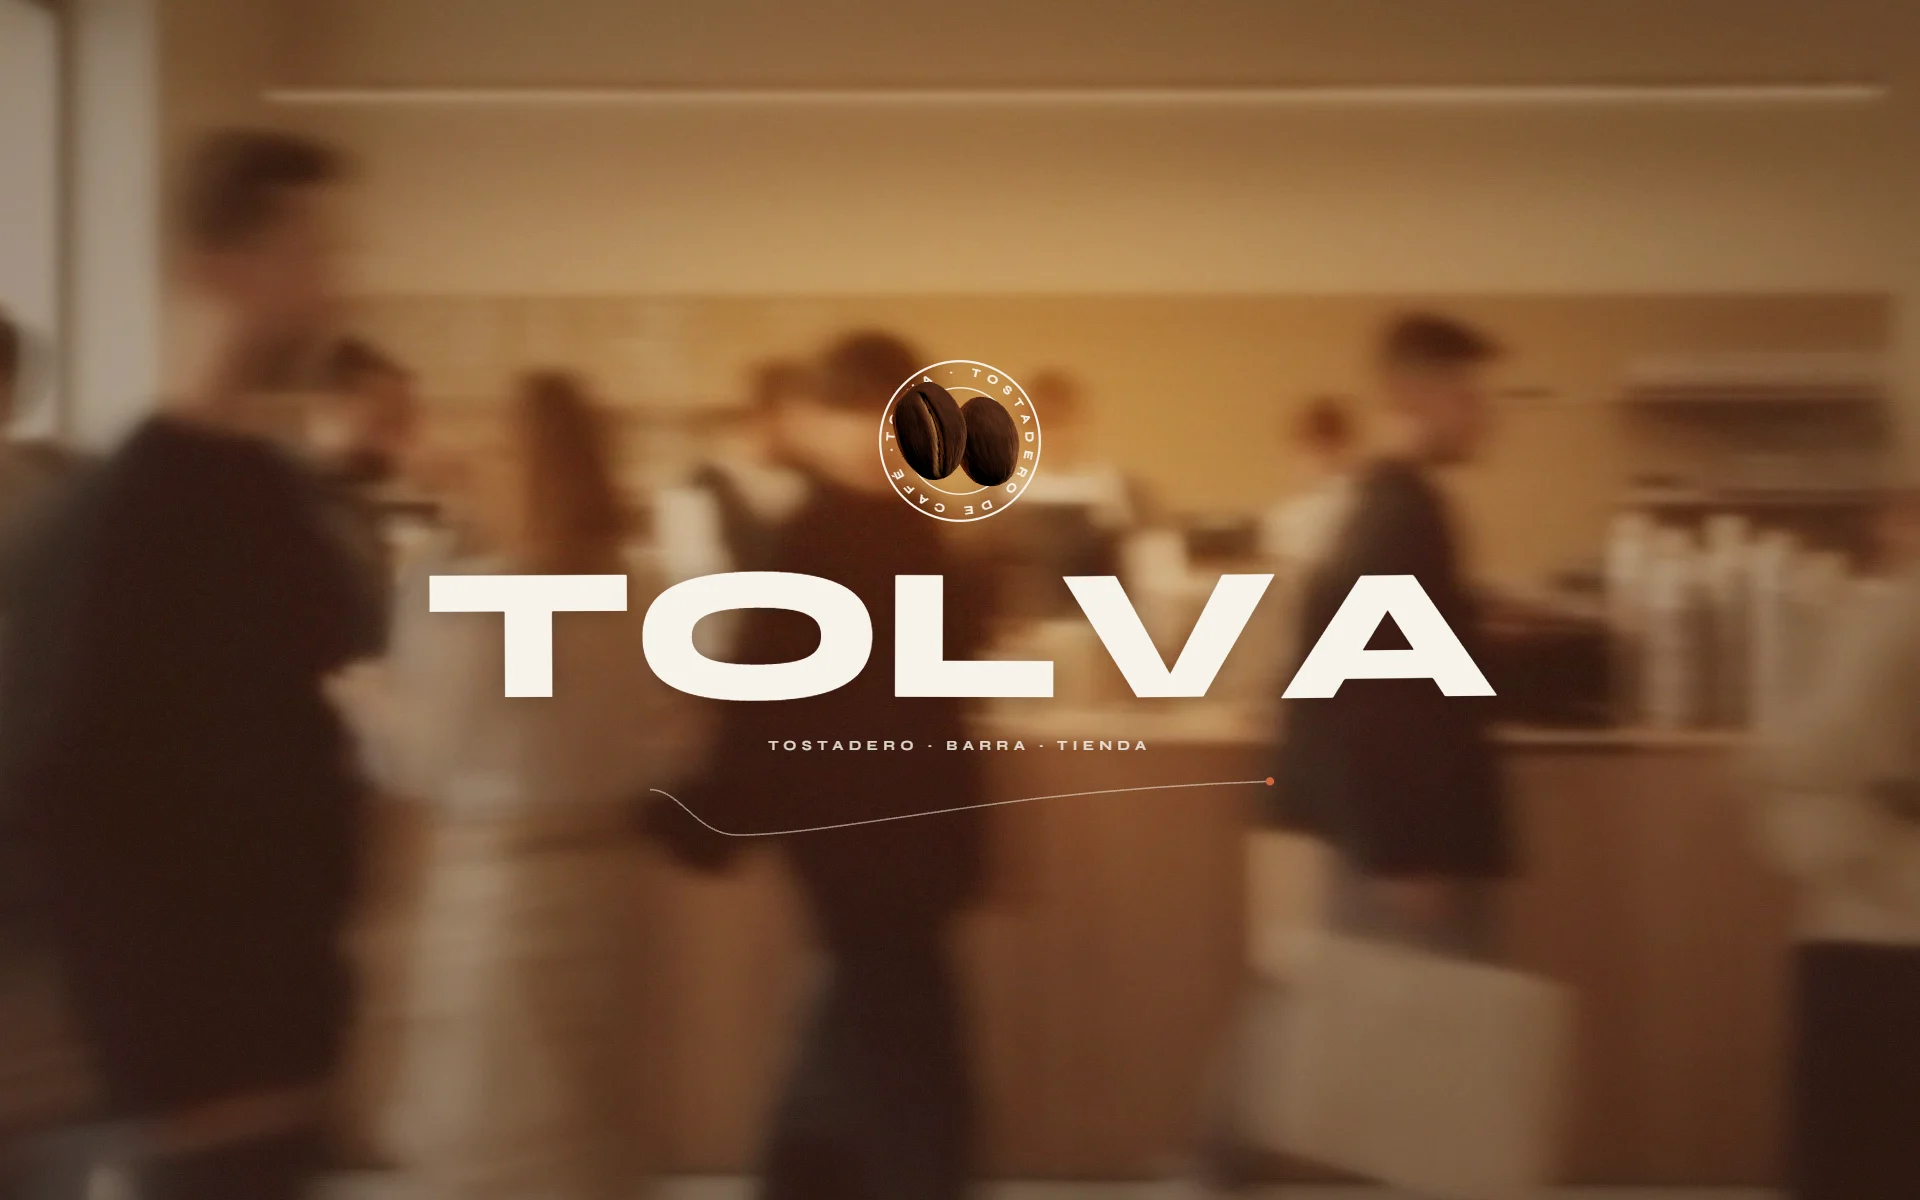
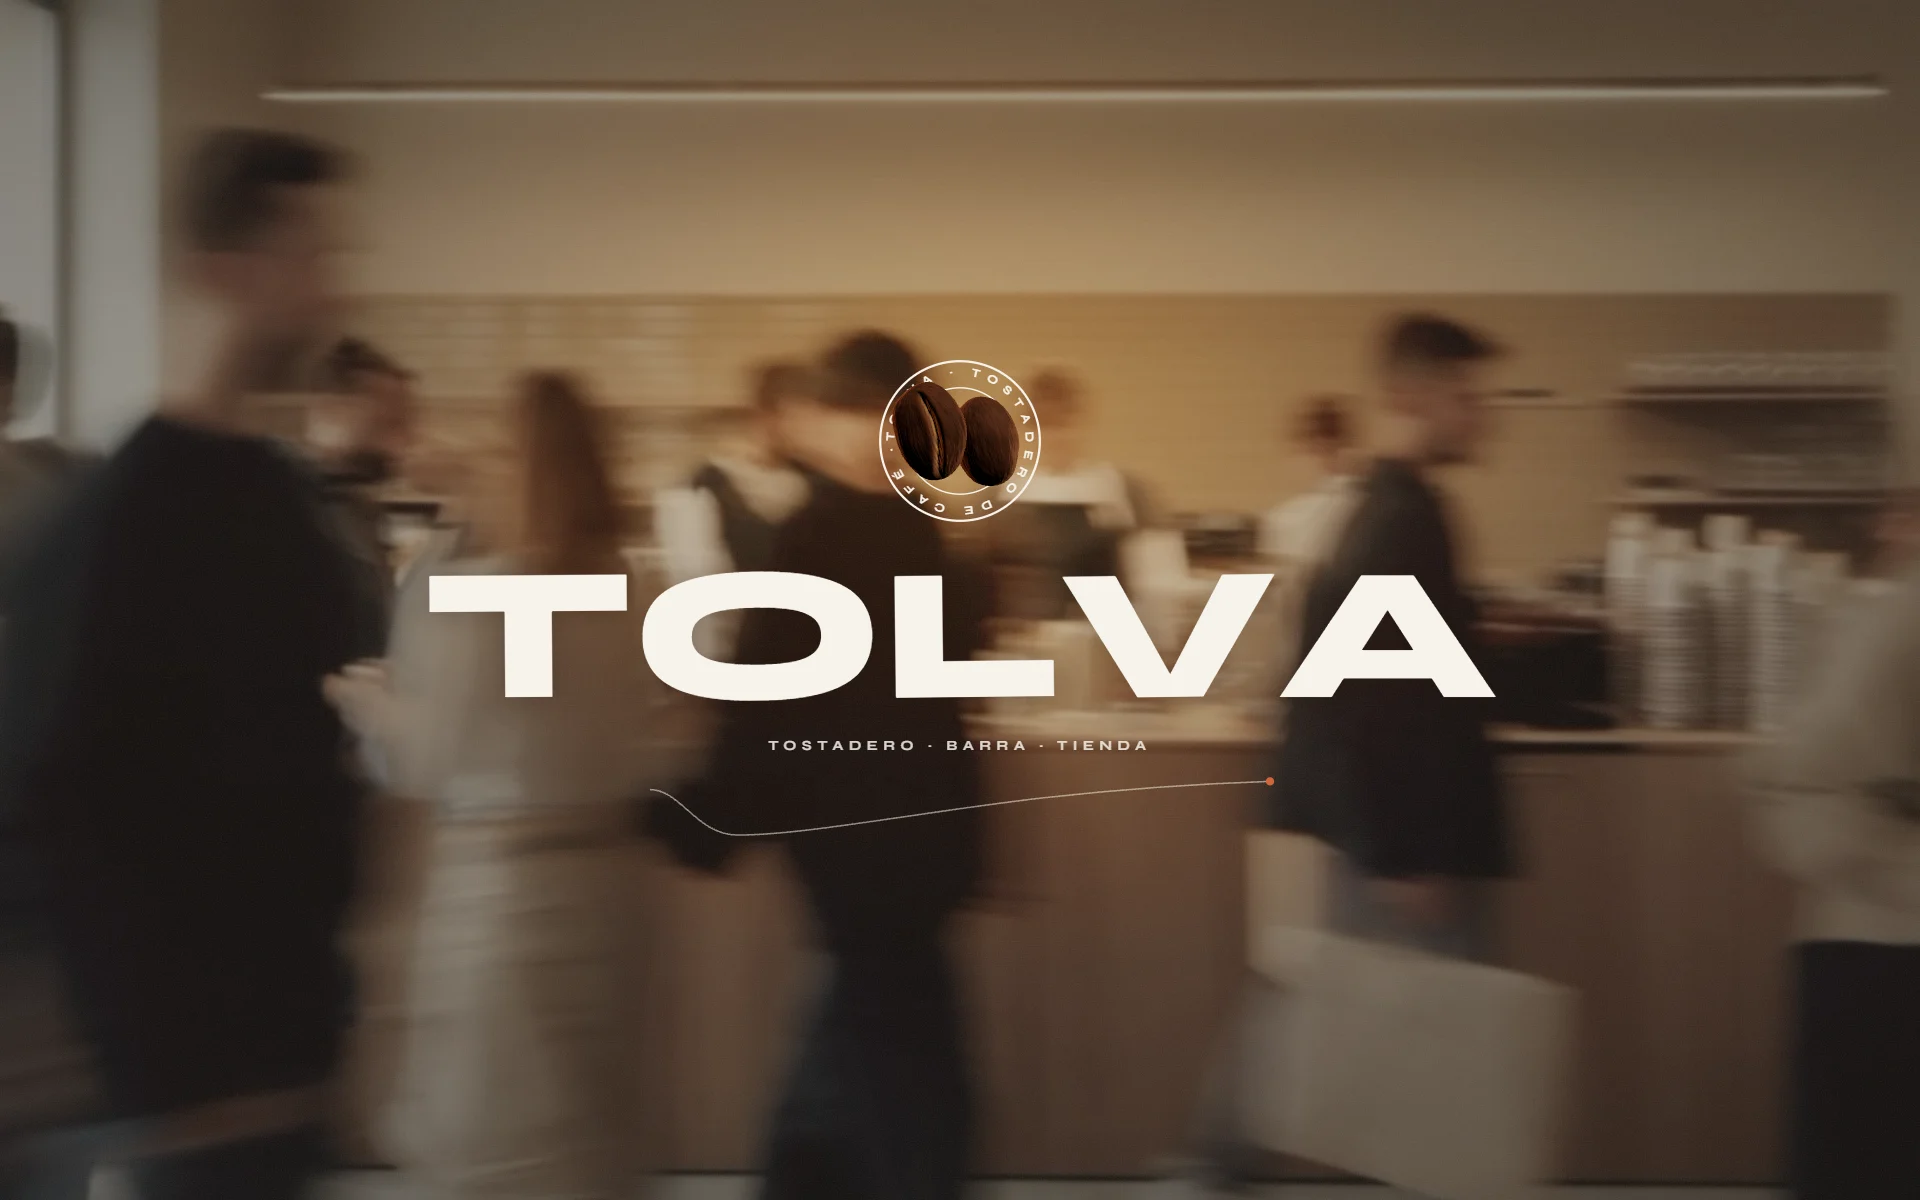
Tolva: sharper, more neutral café behind; phone site with grind and weight choices, sizes fixed

diff --git a/public/concepts/tolva-phone/index.html b/public/concepts/tolva-phone/index.html
@@ -48,9 +48,13 @@
   .txt { font-weight: 500; font-size: 4.2em; line-height: 1.35; }
   .card { border-radius: 5em; overflow: hidden; }
   .row { display: flex; justify-content: space-between; align-items: baseline; }
-  .btn { display: inline-block; background: var(--charcoal); color: var(--cream); border-radius: 99em; padding: 3.2em 7em; font-weight: 700; font-size: 3.8em; }
-  .chip { display: inline-flex; align-items: center; gap: 2em; border: .3em solid rgba(35,34,32,.2); border-radius: 99em; padding: 2.4em 5em; font-weight: 700; font-size: 3.6em; }
-  .chip i { width: 1em; height: 1em; border-radius: 50%; }
+  .btn { display: inline-block; background: var(--charcoal); color: var(--cream); border-radius: 99em; padding: .85em 1.9em; font-weight: 700; font-size: 3.8em; white-space: nowrap; }
+  .chip { display: inline-flex; align-items: center; gap: .55em; border: .08em solid rgba(35,34,32,.25); border-radius: 99em; padding: .6em 1.3em; font-weight: 700; font-size: 3.4em; }
+  .chip i { width: .8em; height: .8em; border-radius: 50%; }
+  /* a choice in a row of options: the grind, the weight */
+  .seg { display: flex; background: var(--mocha); border-radius: 99em; padding: 1em; gap: 1em; }
+  .seg span { flex: 1; text-align: center; border-radius: 99em; padding: .7em 0; font-weight: 700; font-size: 3.4em; opacity: .55; }
+  .seg span.on { background: var(--cream); opacity: 1; box-shadow: 0 .3em .9em rgba(0,0,0,.08); }
   .rule { border-top: .3em solid rgba(35,34,32,.15); }
   /* the menu at the foot of the screen, always there */
   .nav { position: absolute; z-index: 4; left: 50%; bottom: 3.5%; transform: translateX(-50%); display: flex; gap: 1em; background: var(--charcoal); border-radius: 99em; padding: 2em; box-shadow: 0 2em 6em rgba(0,0,0,.25); }
@@ -96,7 +100,12 @@
             <span class="chip"><i style="background:#e8833a"></i>Naranja</span>
             <span class="chip"><i style="background:#c99a5b"></i>Panela</span>
           </div>
-          <div class="row" style="margin-top:6em;align-items:center"><p class="h2" style="font-size:7em;margin:0">14,90 €</p><span class="btn">Añadir</span></div>
+          <p class="txt" style="margin-top:1.6em;font-weight:700">Molienda</p>
+          <div class="seg" style="margin-top:2.5em"><span class="on">Grano</span><span>Filtro</span><span>Espresso</span></div>
+          <p class="txt" style="margin-top:1.1em;font-weight:700">Peso</p>
+          <div class="seg" style="margin-top:2.5em"><span class="on">250 g</span><span>500 g</span><span>1 kg</span></div>
+          <div class="row" style="margin-top:7em;align-items:center"><p class="h2" style="font-size:7.5em;margin:0;white-space:nowrap">14,90 €</p><span class="btn">Añadir</span></div>
+          <p class="txt" style="margin-top:1em;opacity:.6;font-size:3.4em">Tostado el martes · envío en 24 h</p>
         </div>
 
         <!-- today's roast -->
@@ -140,7 +149,7 @@
         <div class="sec" style="padding-bottom:42em">
           <p class="kick">Visítanos</p>
           <p class="h2">De lunes a sábado</p>
-          <p class="txt" style="margin-top:3em;opacity:.7">8:00 – 19:00 · Tostamos los martes y viernes por la mañana: ven a verlo.</p>
+          <p class="txt" style="margin-top:.8em;opacity:.7">8:00 – 19:00 · Tostamos los martes y viernes por la mañana: ven a verlo.</p>
           <svg viewBox="0 0 120 120" style="display:block;width:34em;margin:12em auto 0" aria-hidden="true">
             <defs><path id="sr" d="M60 60 m-47 0 a47 47 0 1 1 94 0 a47 47 0 1 1 -94 0" /></defs>
             <circle cx="60" cy="60" r="57" fill="none" stroke="#232220" stroke-width="1.8" />
@@ -157,6 +166,9 @@
 <script>
   const screen = document.getElementById("screen"), page = document.getElementById("page");
   let y = 0, dir = 1, wait = 1.2, hover = false, visible = true;
+  // ?y=n: held at that scroll, still (to look at one part of the page)
+  const Y = new URLSearchParams(location.search).get("y");
+  if (Y) { y = +Y; hover = true; }
   const max = () => Math.max(0, page.offsetHeight - screen.offsetHeight);
   // pauses on each section as it scrolls, like someone reading
   screen.addEventListener("pointerenter", () => (hover = true));

diff --git a/public/concepts/tolva/index.html b/public/concepts/tolva/index.html
@@ -28,17 +28,17 @@
   body::before {
     content: ""; position: fixed; inset: -20px;
     background: url(glass.jpg) center / cover no-repeat;
-    filter: brightness(1.12);
+    filter: brightness(1.1) saturate(.78);
   }
   /* a light warm wash over the café, under the words (it tinted them when it lay on top) */
   body::after {
     content: ""; position: fixed; inset: 0; pointer-events: none; mix-blend-mode: soft-light; z-index: 0;
-    background: linear-gradient(180deg, rgba(255,175,110,.28), rgba(240,140,80,.2));
+    background: linear-gradient(180deg, rgba(255,190,140,.1), rgba(240,160,110,.06));
   }
   /* only light shade now: enough at the edges to hold the frame, little in the middle */
   .shade {
     position: fixed; inset: 0; pointer-events: none;
-    background: radial-gradient(120% 90% at 50% 45%, rgba(60,30,12,.32), rgba(34,18,8,.68) 88%);
+    background: radial-gradient(120% 90% at 50% 45%, rgba(28,24,20,.34), rgba(18,16,14,.7) 88%);
   }
   .line, .tagline { text-shadow: 0 2px 30px rgba(40,18,6,.35); }
   /* a lamp over the roaster: the warm light */

diff --git a/src/outils/cases.ts b/src/outils/cases.ts
@@ -319,13 +319,13 @@ export const cases: Case[] = [
     },
     cover: tolvaStill,
     // the mark building itself, live: the beans turning in the seal
-    headerFrame: "/concepts/tolva/index.html?v=5",
+    headerFrame: "/concepts/tolva/index.html?v=6",
     images: [
       // half width each: the mark on paper (seal, name, roast curve), beside the palette laying itself out
       { src: tolvaSheet, pair: true },
       { src: "", video: "/video/tolva-palette.mp4", videoSpeed: 1 },
       // the site on a phone, on the brand's orange: it scrolls on its own, and by hand under the pointer
-      { src: "", viewer: "devices", frame: "/concepts/tolva-phone/index.html?v=1" },
+      { src: "", viewer: "devices", frame: "/concepts/tolva-phone/index.html?v=2" },
       // the brand's stories running past on a dark band, without end
       { src: "", viewer: "devices", frame: "/concepts/tolva-stories/index.html?v=6" },
     ],

diff --git a/src/pages/Projects/CaseStudy.tsx b/src/pages/Projects/CaseStudy.tsx
@@ -139,7 +139,7 @@ const MOVING: Record<string, { video?: string; frame?: string } | undefined> = {
   // (its 3D scene is framed for a full screen, off-centre for the words beside it: in a card, its 3D character)
   smarthc: { video: "/video/smarthc.mp4" },
   // (the beans alone: no other card opens on a logo)
-  tolva: { frame: "/concepts/tolva/index.html?beans&v=6" },
+  tolva: { frame: "/concepts/tolva/index.html?beans&v=7" },
 };
 
 const NextStrip: React.FC<{ after: number; shown: Case[]; lang: Lang }> = ({ after, shown, lang }) => {

diff --git a/src/pages/Projects/ProjectsSection.tsx b/src/pages/Projects/ProjectsSection.tsx
@@ -71,7 +71,7 @@ const SCENE: Record<string, string | undefined> = {
   // (v: bumped when the scene changes, so a cached copy is never shown)
   buendia: "/concepts/buendia-devices/index.html?bare&v=3",
   smarthc: "/concepts/smarthc-devices/index.html?bare&room&v=3",
-  tolva: "/concepts/tolva/index.html?v=5",
+  tolva: "/concepts/tolva/index.html?v=6",
 };
 
 // Projects shown as their drawing drawing itself, then the photograph (the case's opening drawing)
